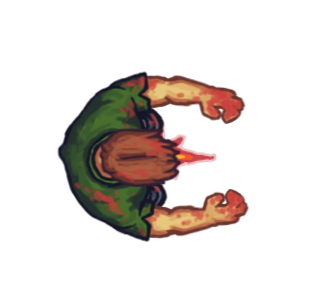
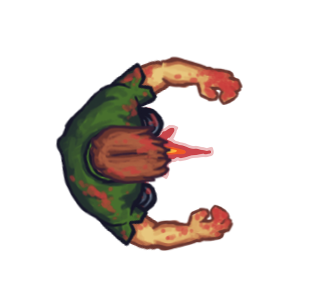
melee, reload, and better ui

Changed region(s): [[0.1698, 0.1837, 0.7925, 0.8571]]

diff --git a/Game/game.py b/Game/game.py
@@ -11,16 +11,18 @@ import random
 width = 800
 height = 600
 
-text_color = (255, 75, 75)
+text_color = (200, 200, 200)
 text_font = 'arialblack'
-text_size = 40
+text_size = 35
 
 player_img = os.getcwd() + '/assets/survivor-idle_rifle_0.png'
 enemy_img = os.getcwd() + '/assets/skeleton-attack_0.png'
 ammo_img = os.getcwd() + '/assets/Ammo.png'
 bg_img = os.getcwd() + '/assets/bg1.png'
+ui_bg_img = os.getcwd() + '/assets/player_ui_bg.png'
 
 damage_dist = 20
+knife_dist = 40
 ammo_dist = 25
 ammo_amount = 10
 
@@ -28,6 +30,7 @@ ammo_amount = 10
 flash_time = 0.05
 hit_time = 0.07
 reload_time = 2
+knife_time = 0.5
 
 
 # Game loop
@@ -39,25 +42,36 @@ def play_game(screen):
     bg_image = pg.image.load(bg_img).convert()
     screen.blit(bg_image, (0, 0))
 
+    # Health Fade
+    health_surface = pg.Surface((width, height - 50), pg.SRCALPHA)
+    health_surface.fill((0, 0, 0, 0))
+    screen.blit(health_surface, (0, 0))
+
     # List of all sprites
     all_sprites_list = pg.sprite.Group()
 
     # Temporary creates ammo
-    a = Ammo(ammo_img, 100, 100, 'rifle', ammo_amount)
+    a = Ammo(ammo_img, -50, -50, 'rifle', ammo_amount)
     all_sprites_list.add(a)
 
     # Timer starts
     flash_start = timer()
     hit_start = timer()
     reload_start = 0
+    knife_start = 0
 
     # Creates player character
     pc = Player(player_img, width/2, height/2)
     all_sprites_list.add(pc)
+    p_health = pc.health
 
     # Creates enemy
-    e = Enemy(enemy_img, 50, 50, pc.x, pc.y)
+    e = Enemy(enemy_img, -50, -50, pc.x, pc.y)
     all_sprites_list.add(e)
+
+    # Player UI
+    ui_bg_image = pg.image.load(ui_bg_img).convert_alpha()
+    screen.blit(ui_bg_image, (0, height - 50))
 
     # Health display
     font = pg.font.SysFont(text_font, text_size)
@@ -67,7 +81,12 @@ def play_game(screen):
     # Ammo display
     font = pg.font.SysFont(text_font, text_size)
     ammo_text = font.render('Ammo: ' + str(pc.clip) + ' / ' + str(pc.ammo), False, text_color)
-    screen.blit(ammo_text, (width - 400, height - 50))
+    screen.blit(ammo_text, (255, height - 50))
+
+    # Health display
+    font = pg.font.SysFont(text_font, text_size)
+    points_text = font.render('Points: ' + str(pc.points), False, text_color)
+    screen.blit(points_text, (555, height - 50))
 
     while True:
         for event in pg.event.get():
@@ -75,9 +94,12 @@ def play_game(screen):
                 pg.quit()
                 sys.exit()
 
-            if event.type == KEYDOWN and pg.key.get_pressed()[pg.K_SPACE]:
+            # Reload
+            if event.type == KEYDOWN and pg.key.get_pressed()[ord('r')]:
                 if timer() - reload_start >= reload_time:
                     reload_start = timer()
+                    pc.image_num = 2
+                    pc.update()
                     ammo_loaded = pc.clip_size - pc.clip
                     if pc.ammo >= ammo_loaded:
                         pc.ammo -= ammo_loaded
@@ -85,7 +107,19 @@ def play_game(screen):
                     else:
                         pc.clip += pc.ammo
                         pc.ammo = 0
+            # Knife
+            if event.type == KEYDOWN and pg.key.get_pressed()[pg.K_SPACE]:
+                knife_start = timer()
+                pc.image_num = 3
+                pc.update()
 
+                if abs(e.x - pc.x) <= knife_dist and abs(e.y - pc.y) <= knife_dist:
+                    e.health -= 50
+                    hit_start = timer()
+                    e.image_num = 1
+                    e.update()
+
+            # Shoot
             if event.type == pg.MOUSEBUTTONUP:
                 pos = pg.mouse.get_pos()
 
@@ -106,8 +140,11 @@ def play_game(screen):
                             e.image_num = 1
                             e.update()
 
-        # Muzzle flash image
-        if timer() - flash_start >= flash_time:
+        # Normal player image if no muzzle flash, reload, or knife
+        flash_calc = timer() - flash_start >= flash_time
+        reload_calc = timer() - reload_start >= reload_time
+        knife_calc = timer() - knife_start >= knife_time
+        if flash_calc and reload_calc and knife_calc:
             pc.image_num = 0
 
         # Enemy hit image
@@ -116,6 +153,8 @@ def play_game(screen):
 
         # Enemy dies
         if e.health <= 0:
+            pc.points += 1
+
             all_sprites_list.remove(a)
             a = Ammo(ammo_img, e.x, e.y, 'rifle', ammo_amount)
             all_sprites_list.add(a)
@@ -145,12 +184,15 @@ def play_game(screen):
         screen.blit(health_text, (10, height - 50))
 
         # Ammo text updates
-        if timer() - reload_start < reload_time:
-            ammo_text = font.render('RELOADING', False, text_color)
-            screen.blit(ammo_text, (width - 350, height - 100))
-
         ammo_text = font.render('Ammo: ' + str(pc.clip) + ' / ' + str(pc.ammo), False, text_color)
-        screen.blit(ammo_text, (width - 400, height - 50))
+
+        if timer() - reload_start < reload_time:
+            ammo_text = font.render('Ammo: RLD', False, text_color)
+        screen.blit(ammo_text, (255, height - 50))
+
+        # Points text updates
+        points_text = font.render('Points: ' + str(pc.points), False, text_color)
+        screen.blit(points_text, (555, height - 50))
 
         # On death
         if pc.health <= 0:
@@ -163,6 +205,12 @@ def play_game(screen):
 
         # Redraws sprites
         all_sprites_list.draw(screen)
+
+        screen.blit(ui_bg_image, (0, height - 50))
+
+        # Health fade
+        health_surface.fill((0, 0, 0, 2 * (p_health - pc.health)))
+        screen.blit(health_surface, (0, 0))
 
         clock.tick(60)
 

diff --git a/Game/player.py b/Game/player.py
@@ -9,6 +9,8 @@ pg.display.set_mode((width, height))
 
 p_img_scale = 0.3
 player_firing_img = os.getcwd() + '/assets/pc_firing.png'
+player_reload_img = os.getcwd() + '/assets/player_reload.png'
+player_knife_img = os.getcwd() + '/assets/player_knife.png'
 
 
 class Player(pg.sprite.Sprite):
@@ -22,6 +24,10 @@ class Player(pg.sprite.Sprite):
         self.rect = self.image.get_rect()
         self.fire_img = pg.image.load(player_firing_img).convert_alpha()
         self.fire_img = pg.transform.scale(self.fire_img, player_dimensions).convert_alpha()
+        self.reload_img = pg.image.load(player_reload_img).convert_alpha()
+        self.reload_img = pg.transform.scale(self.reload_img, player_dimensions).convert_alpha()
+        self.knife_img = pg.image.load(player_knife_img).convert_alpha()
+        self.knife_img = pg.transform.scale(self.knife_img, player_dimensions).convert_alpha()
         self.x = x
         self.y = y
         self.pos = (self.x, self.y)
@@ -32,6 +38,7 @@ class Player(pg.sprite.Sprite):
         self.clip = 10
         self.clip_size = 10
         self.image_num = 0
+        self.points = 0
 
     def update(self):
         self.handle_keys()
@@ -52,6 +59,14 @@ class Player(pg.sprite.Sprite):
             current_img = self.fire_img
             self.image = pg.transform.rotate(current_img, self.rot).convert_alpha()
             self.rect = self.image.get_rect()
+        elif self.image_num == 2:
+            current_img = self.reload_img
+            self.image = pg.transform.rotate(current_img, self.rot).convert_alpha()
+            self.rect = self.image.get_rect()
+        elif self.image_num == 3:
+            current_img = self.knife_img
+            self.image = pg.transform.rotate(current_img, self.rot).convert_alpha()
+            self.rect = self.image.get_rect()
 
         self.rect.center = self.pos
 
@@ -59,7 +74,7 @@ class Player(pg.sprite.Sprite):
         key = pg.key.get_pressed()
         dist = 3  # distance moved in 1 frame
         from_wall = 42
-        if (key[pg.K_DOWN] or key[ord('s')]) and self.y <= height - from_wall:  # down key
+        if (key[pg.K_DOWN] or key[ord('s')]) and self.y <= height - from_wall - 50:  # down key
             self.y += dist  # move down
         elif (key[pg.K_UP] or key[ord('w')]) and self.y >= from_wall:  # up key
             self.y -= dist  # move up

diff --git a/Game/assets/death_screen.py b/Game/assets/death_screen.py
@@ -1,0 +1,69 @@
+import pygame as pg
+import sys
+import os
+from pygame.locals import *
+from timeit import default_timer as timer
+
+width = 800
+height = 600
+
+text_color = (200, 100, 100)
+text_font = 'arialblack'
+text_size = 60
+
+bg_img = os.getcwd() + '/assets/bg1.png'
+
+
+# Death Screen
+def show(screen):
+    clock = pg.time.Clock()
+
+    fade = 200
+    fade_reverse = False
+    fade_time = 5
+    fade_start = timer()
+
+    # Create the background for the menu
+    bg_image = pg.image.load(bg_img).convert()
+    screen.blit(bg_image, (0, 0))
+
+    # Death Fade
+    fade_surface = pg.Surface((width, height), pg.SRCALPHA)
+    fade_surface.fill((0, 0, 0, fade))
+    screen.blit(fade_surface, (0, 0))
+
+    # Death display
+    font = pg.font.SysFont(text_font, text_size)
+    death_text = font.render('Dead', False, text_color)
+    screen.blit(death_text, (width/2 - 80, height/2 - 50))
+
+    # Display loop
+    while True:
+        for event in pg.event.get():
+            if event.type == QUIT:
+                pg.quit()
+                sys.exit()
+
+        if not fade_reverse and fade < 255:
+            fade += 1
+        else:
+            fade -= 1
+
+        if fade == 255 and timer() - fade_start >= fade_time:
+            fade_reverse = True
+
+        if fade <= 175:
+            return
+
+        screen.blit(bg_image, (0, 0))
+        fade_surface.fill((0, 0, 0, fade))
+        screen.blit(fade_surface, (0, 0))
+
+        if fade >= 220:
+            screen.blit(death_text, (width / 2 - 80, height / 2 - 50))
+
+        pg.display.update()
+
+        clock.tick(60)
+
+    return

diff --git a/Game/main_menu.py b/Game/main_menu.py
@@ -12,7 +12,10 @@ button_text_size = 40
 
 # Button dimensions
 b_w = 200
-b_h = 50
+b_h = 43
+
+start_button_img = os.getcwd() + '/assets/start_button.png'
+controls_button_img = os.getcwd() + '/assets/controls_button.png'
 
 
 # Game loop
@@ -25,17 +28,13 @@ def open_menu(screen):
     bg_image = pg.image.load(bg_img).convert()
     screen.blit(bg_image, (0, 0))
 
-    start_button = pg.Rect(w/2 - b_w/2, h/2 - b_h/2 + 120, b_w, b_h)
-    pg.draw.rect(screen, button_color, start_button)
-    font = pg.font.SysFont(button_font, button_text_size)
-    start_text = font.render('Start Game', False, button_text_color)
-    screen.blit(start_text, (start_button.left + 10, start_button.top + 10))
+    start_image = pg.image.load(start_button_img).convert_alpha()
+    start_button = pg.Rect((w/2 - b_w/2, h/2 - b_h/2 + 50), (b_w, b_h))
+    screen.blit(start_image, start_button)
 
-    instr_button = pg.Rect(w/2 - b_w/2, h/2 - b_h/2 + 180, b_w, b_h)
-    pg.draw.rect(screen, button_color, instr_button)
-    font = pg.font.SysFont(button_font, button_text_size)
-    instr_text = font.render('Instructions', False, button_text_color)
-    screen.blit(instr_text, (instr_button.left + 10, instr_button.top + 10))
+    controls_image = pg.image.load(controls_button_img).convert_alpha()
+    instr_button = pg.Rect((w / 2 - b_w / 2, h / 2 - b_h / 2 + 100), (b_w, b_h))
+    screen.blit(controls_image, instr_button)
 
     # Main menu loop
     while True:

diff --git a/Game/main.py b/Game/main.py
@@ -8,6 +8,8 @@ import main_menu
 import instr_menu
 
 # Initializes required modules
+from assets import death_screen
+
 pg.init()
 
 # Creates game window
@@ -15,7 +17,7 @@ screen = pg.display.set_mode((800, 600))
 pg.display.set_caption('Zombie Game')
 
 # Screen currently displayed
-# 'menu', 'instructions', 'game'
+# 'menu', 'instructions', 'game', 'death'
 screen_choice = 'menu'
 
 # Menu loop
@@ -38,4 +40,9 @@ while True:
     # Game loop
     if screen_choice == 'game':
         game.play_game(screen)
+        screen_choice = 'death'
+
+    # Game loop
+    if screen_choice == 'death':
+        death_screen.show(screen)
         screen_choice = 'menu'
